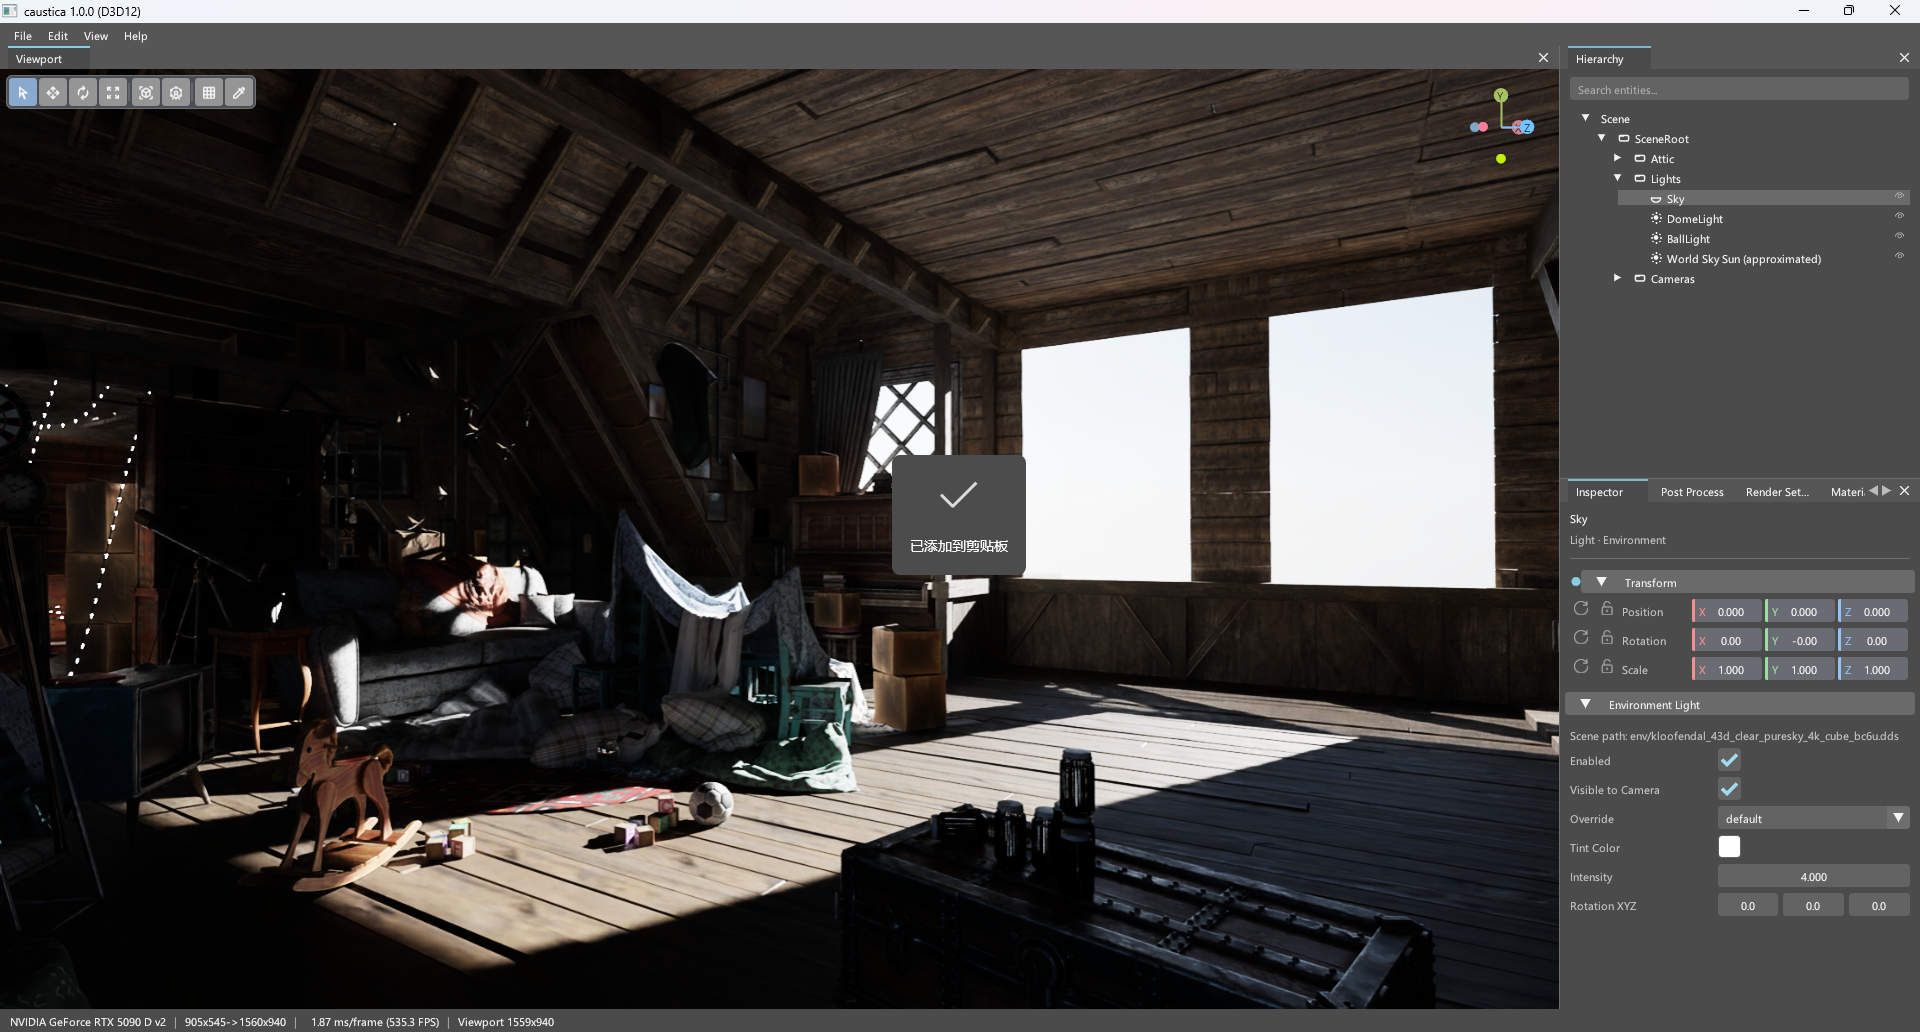
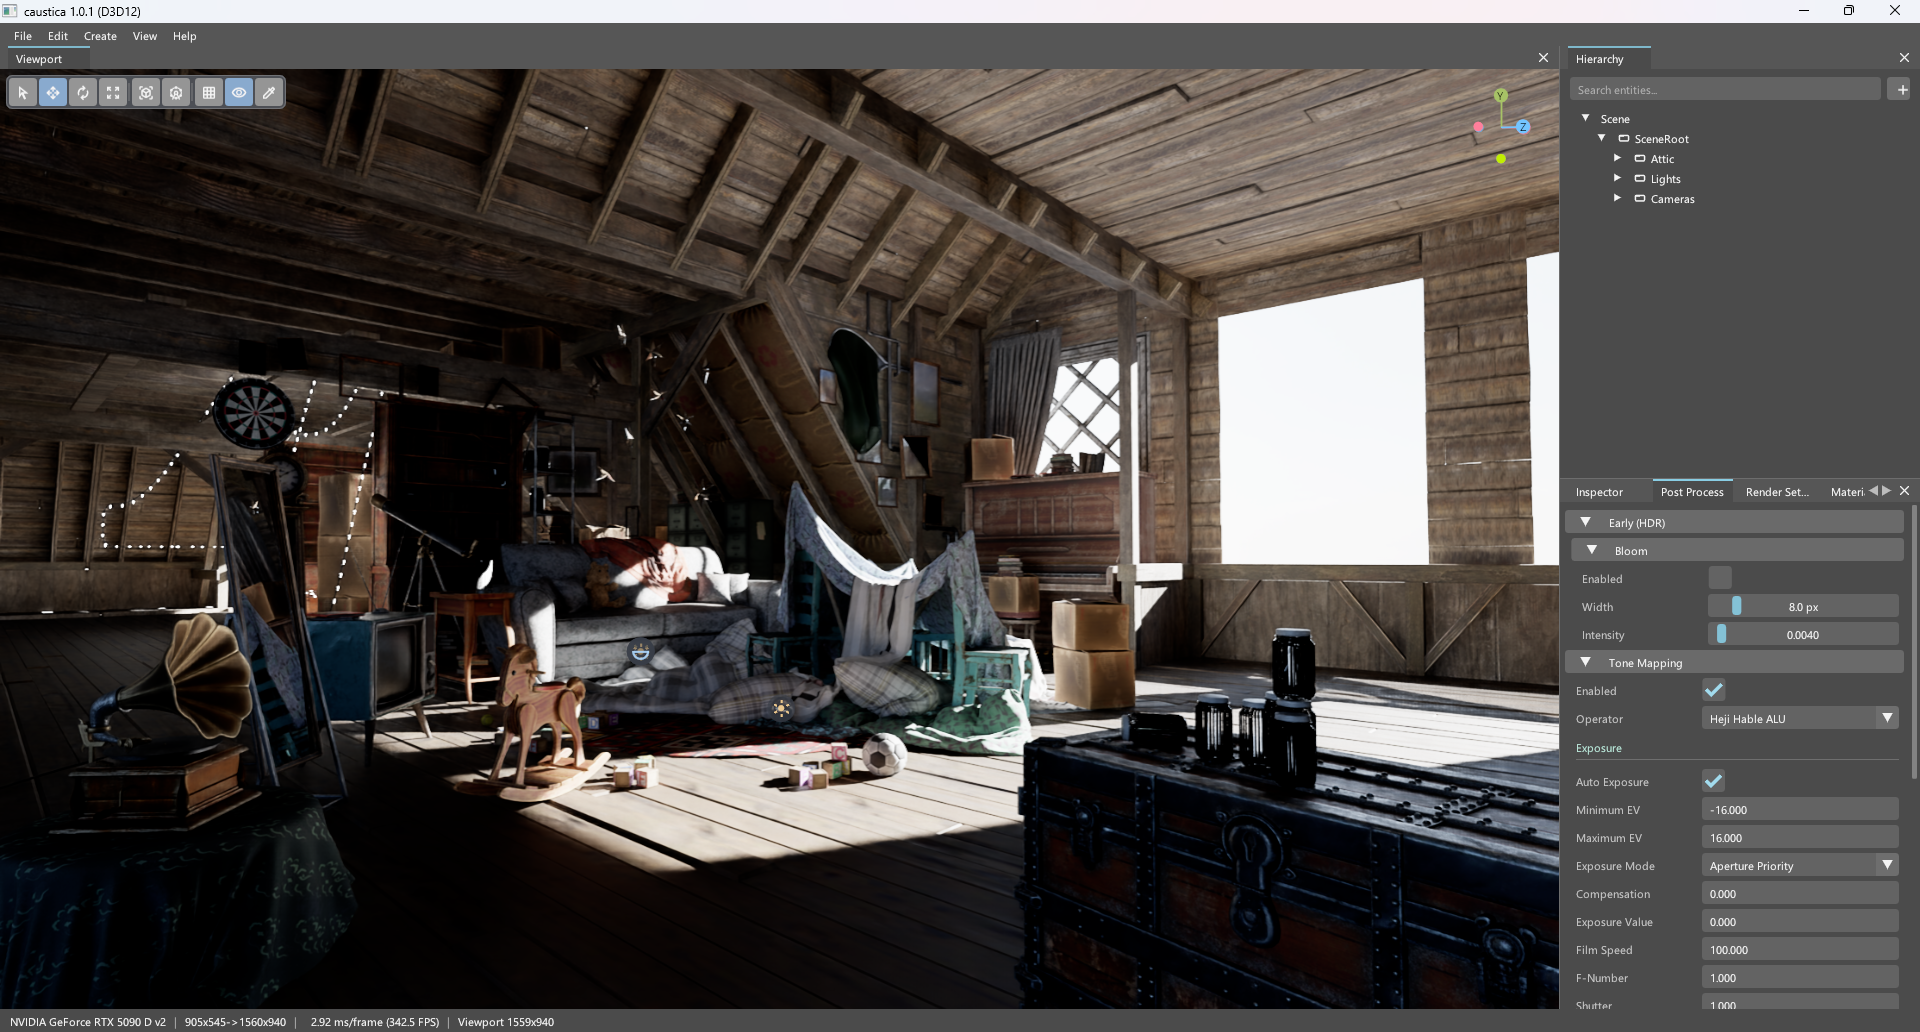
Fix live post-process controls for scene cameras

diff --git a/application/editor/ui/panels/EditorUIPanels_PostProcess.cpp b/application/editor/ui/panels/EditorUIPanels_PostProcess.cpp
@@ -5,12 +5,14 @@
 #include "EditorAccess.h"
 #include <engine/SceneQuery.h>
 #include <engine/RenderSessionApi.h>
+#include <engine/CameraApi.h>
 #include <core/task/TaskRuntime.h>
 #include "common/ImGuiManager.h"
 
 #include <render/core/PathTracerSettings.h>
 #include <core/vfs/VFS.h>
 #include <scene/SceneTypes.h>
+#include <scene/SceneCameraAccess.h>
 #include <imgui_internal.h>
 #include <assets/loader/ShaderFactory.h>
 #include <render/passes/postProcess/ToneMappingPasses.h>
@@ -32,6 +34,38 @@ using namespace caustica::editor;
 
 namespace caustica::editor
 {
+
+namespace
+{
+// Scene cameras may carry glTF exposure / tone-map metadata. The camera update
+// system applies that metadata every frame, so mirror editor overrides back to
+// the active camera rather than letting the next update undo the UI change.
+void syncToneMappingToActiveSceneCamera(SceneEditor& sceneEditor, const ToneMappingParameters& params)
+{
+    auto& app = editorApp(sceneEditor);
+    const uint32_t selectedCamera = caustica::selectedCameraIndex(app);
+    if (selectedCamera == 0)
+        return; // Free camera: PathTracerSettings is the authoritative source.
+
+    const auto& cameras = caustica::sceneCameraEntities(app);
+    const size_t index = size_t(selectedCamera - 1);
+    auto* entityWorld = caustica::entityWorld(app);
+    if (!entityWorld || index >= cameras.size())
+        return;
+
+    auto* camera = caustica::scene::tryGetCamera(entityWorld->world(), cameras[index]);
+    auto* perspective = camera ? caustica::scene::tryGetPerspectiveCameraData(*camera) : nullptr;
+    if (!perspective)
+        return;
+
+    perspective->enableAutoExposure = params.autoExposure;
+    perspective->toneMapOperator = tonemapOperatorToString.at(params.toneMapOperator);
+    perspective->exposureCompensation = params.exposureCompensation;
+    perspective->exposureValue = params.exposureValue;
+    perspective->exposureValueMin = params.exposureValueMin;
+    perspective->exposureValueMax = params.exposureValueMax;
+}
+} // namespace
 
 void EditorUI::BuildOpacityMicroMapsPanel(const PanelLayout& layout)
 {
@@ -118,7 +152,8 @@ void EditorUI::BuildPostProcessPanel(const PanelLayout& layout)
     if (ImGui::CollapsingHeader("Tone Mapping", ImGuiTreeNodeFlags_DefaultOpen))
     {
         RAII_SCOPE(ImGui::Indent(layout.indent);, ImGui::Unindent(layout.indent););
-        SettingsCheckbox("Enabled##ToneMapping", &m_settings.EnableToneMapping);
+        bool toneMappingChanged = false;
+        toneMappingChanged |= SettingsCheckbox("Enabled##ToneMapping", &m_settings.EnableToneMapping);
 
         const std::string currentOperator =
             tonemapOperatorToString.at(m_settings.ToneMappingParams.toneMapOperator);
@@ -128,21 +163,24 @@ void EditorUI::BuildPostProcessPanel(const PanelLayout& layout)
             {
                 const bool is_selected = it->first == m_settings.ToneMappingParams.toneMapOperator;
                 if (ImGui::Selectable(it->second.c_str(), is_selected))
+                {
                     m_settings.ToneMappingParams.toneMapOperator = it->first;
+                    toneMappingChanged = true;
+                }
             }
             SettingsEndCombo();
         }
 
         SettingsCategoryHeader("Exposure");
-        SettingsCheckbox("Auto Exposure", &m_settings.ToneMappingParams.autoExposure);
+        toneMappingChanged |= SettingsCheckbox("Auto Exposure", &m_settings.ToneMappingParams.autoExposure);
 
         if (m_settings.ToneMappingParams.autoExposure)
         {
-            SettingsInputFloat("Minimum EV", &m_settings.ToneMappingParams.exposureValueMin);
+            toneMappingChanged |= SettingsInputFloat("Minimum EV", &m_settings.ToneMappingParams.exposureValueMin);
             m_settings.ToneMappingParams.exposureValueMin = dm::min(
                 m_settings.ToneMappingParams.exposureValueMax,
                 m_settings.ToneMappingParams.exposureValueMin);
-            SettingsInputFloat("Maximum EV", &m_settings.ToneMappingParams.exposureValueMax);
+            toneMappingChanged |= SettingsInputFloat("Maximum EV", &m_settings.ToneMappingParams.exposureValueMax);
             m_settings.ToneMappingParams.exposureValueMax = dm::max(
                 m_settings.ToneMappingParams.exposureValueMin,
                 m_settings.ToneMappingParams.exposureValueMax);
@@ -156,53 +194,56 @@ void EditorUI::BuildPostProcessPanel(const PanelLayout& layout)
             {
                 const bool is_selected = it->first == m_settings.ToneMappingParams.exposureMode;
                 if (ImGui::Selectable(it->second.c_str(), is_selected))
+                {
                     m_settings.ToneMappingParams.exposureMode = it->first;
+                    toneMappingChanged = true;
+                }
             }
             SettingsEndCombo();
         }
 
-        SettingsInputFloat("Compensation", &m_settings.ToneMappingParams.exposureCompensation);
+        toneMappingChanged |= SettingsInputFloat("Compensation", &m_settings.ToneMappingParams.exposureCompensation);
         m_settings.ToneMappingParams.exposureCompensation =
             dm::clamp(m_settings.ToneMappingParams.exposureCompensation, -12.0f, 12.0f);
 
-        SettingsInputFloat("Exposure Value", &m_settings.ToneMappingParams.exposureValue);
+        toneMappingChanged |= SettingsInputFloat("Exposure Value", &m_settings.ToneMappingParams.exposureValue);
         m_settings.ToneMappingParams.exposureValue = dm::clamp(
             m_settings.ToneMappingParams.exposureValue,
             dm::log2f(0.1f * 0.1f * 0.1f),
             dm::log2f(100000.f * 100.f * 100.f));
 
-        SettingsInputFloat("Film Speed", &m_settings.ToneMappingParams.filmSpeed);
+        toneMappingChanged |= SettingsInputFloat("Film Speed", &m_settings.ToneMappingParams.filmSpeed);
         m_settings.ToneMappingParams.filmSpeed =
             dm::clamp(m_settings.ToneMappingParams.filmSpeed, 1.0f, 6400.0f);
 
-        SettingsInputFloat("F-Number", &m_settings.ToneMappingParams.fNumber);
+        toneMappingChanged |= SettingsInputFloat("F-Number", &m_settings.ToneMappingParams.fNumber);
         m_settings.ToneMappingParams.fNumber =
             dm::clamp(m_settings.ToneMappingParams.fNumber, 0.1f, 100.0f);
 
-        SettingsInputFloat("Shutter", &m_settings.ToneMappingParams.shutter);
+        toneMappingChanged |= SettingsInputFloat("Shutter", &m_settings.ToneMappingParams.shutter);
         m_settings.ToneMappingParams.shutter =
             dm::clamp(m_settings.ToneMappingParams.shutter, 0.1f, 10000.0f);
 
         SettingsCategoryHeader("White Balance");
-        SettingsCheckbox("Enabled##WhiteBalance", &m_settings.ToneMappingParams.whiteBalance);
+        toneMappingChanged |= SettingsCheckbox("Enabled##WhiteBalance", &m_settings.ToneMappingParams.whiteBalance);
 
-        SettingsInputFloat("White Point", &m_settings.ToneMappingParams.whitePoint);
+        toneMappingChanged |= SettingsInputFloat("White Point", &m_settings.ToneMappingParams.whitePoint);
         m_settings.ToneMappingParams.whitePoint =
             dm::clamp(m_settings.ToneMappingParams.whitePoint, 1905.0f, 25000.0f);
 
-        SettingsInputFloat("Max Luminance", &m_settings.ToneMappingParams.whiteMaxLuminance);
+        toneMappingChanged |= SettingsInputFloat("Max Luminance", &m_settings.ToneMappingParams.whiteMaxLuminance);
         m_settings.ToneMappingParams.whiteMaxLuminance =
             dm::clamp(m_settings.ToneMappingParams.whiteMaxLuminance, 0.1f, FLT_MAX);
 
-        SettingsInputFloat("White Scale", &m_settings.ToneMappingParams.whiteScale);
+        toneMappingChanged |= SettingsInputFloat("White Scale", &m_settings.ToneMappingParams.whiteScale);
         m_settings.ToneMappingParams.whiteScale =
             dm::clamp(m_settings.ToneMappingParams.whiteScale, 0.f, 100.f);
 
-        SettingsCheckbox("Clamp", &m_settings.ToneMappingParams.clamped);
+        toneMappingChanged |= SettingsCheckbox("Clamp", &m_settings.ToneMappingParams.clamped);
 
         SettingsCategoryHeader("Camera LUT");
-        SettingsCheckbox("Enabled##CameraLut", &m_settings.ToneMappingParams.cameraLutEnabled);
-        SettingsCheckbox("After Tone Map", &m_settings.ToneMappingParams.cameraLutAfterToneMap);
+        toneMappingChanged |= SettingsCheckbox("Enabled##CameraLut", &m_settings.ToneMappingParams.cameraLutEnabled);
+        toneMappingChanged |= SettingsCheckbox("After Tone Map", &m_settings.ToneMappingParams.cameraLutAfterToneMap);
         const std::string currentPreset =
             CameraLutPresetToString.at(m_settings.ToneMappingParams.cameraLutPreset);
         if (SettingsBeginCombo("Preset", currentPreset.c_str()))
@@ -213,7 +254,10 @@ void EditorUI::BuildPostProcessPanel(const PanelLayout& layout)
                     continue;
                 const bool selected = preset.first == m_settings.ToneMappingParams.cameraLutPreset;
                 if (ImGui::Selectable(preset.second.c_str(), selected))
+                {
                     m_settings.ToneMappingParams.applyCameraLutPreset(preset.first);
+                    toneMappingChanged = true;
+                }
             }
             SettingsEndCombo();
         }
@@ -225,13 +269,24 @@ void EditorUI::BuildPostProcessPanel(const PanelLayout& layout)
                 std::string error;
                 if (!m_settings.ToneMappingParams.loadCameraLut(picked, &error))
                     caustica::warning("Failed to load camera LUT '%s': %s", picked.c_str(), error.c_str());
+                else
+                    toneMappingChanged = true;
             }
         }
         ImGui::SameLine();
         if (ImGui::Button("Clear##CameraLut"))
+        {
             m_settings.ToneMappingParams.clearCameraLut();
+            toneMappingChanged = true;
+        }
         if (!m_settings.ToneMappingParams.cameraLutPath.empty())
             ImGui::TextWrapped("%s", m_settings.ToneMappingParams.cameraLutPath.c_str());
+
+        if (toneMappingChanged)
+        {
+            syncToneMappingToActiveSceneCamera(m_sceneEditor, m_settings.ToneMappingParams);
+            m_settings.ResetAccumulation = true;
+        }
     }
 
     if (ImGui::CollapsingHeader("Late (LDR)", ImGuiTreeNodeFlags_DefaultOpen))
